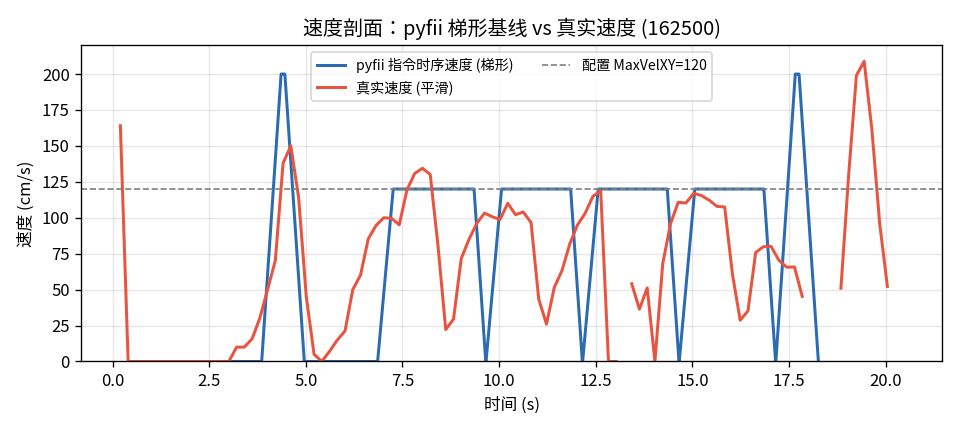
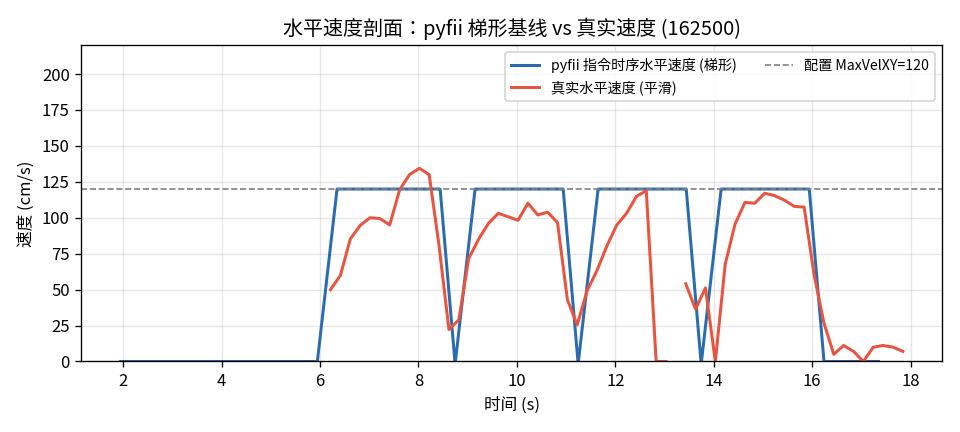
docs: clarify flight log timing alignment

diff --git a/tools/flight_log_analysis.py b/tools/flight_log_analysis.py
@@ -324,6 +324,11 @@ def speed_series(t,x,y,z):
     v=np.sqrt(np.diff(x)**2+np.diff(y)**2+np.diff(z)**2)/np.where(dt==0,1e-9,dt)
     return t[1:], v
 
+def xy_speed_series(t, x, y):
+    dt = np.diff(t)
+    v = np.hypot(np.diff(x), np.diff(y)) / np.where(dt == 0, 1e-9, dt)
+    return t[1:], v
+
 def clean_glitches(x,y,z,thresh=60):
     """flag samples whose jump from previous > thresh cm (localization glitches)"""
     d=np.sqrt(np.diff(x)**2+np.diff(y)**2+np.diff(z)**2)
@@ -383,6 +388,20 @@ def speed_samples(d):
     dt = np.where(dt <= 0, np.nan, dt)
     v = np.sqrt(np.diff(d["x"])**2 + np.diff(d["y"])**2 + np.diff(d["z"])**2) / dt
     return d["t"][1:], v
+
+def first_xy_motion_time(t, x, y, *, z=None, min_t=0.0, min_z=None, threshold=20.0):
+    """First sample time after sustained horizontal motion is visible."""
+    dt = np.diff(t)
+    vxy = np.hypot(np.diff(x), np.diff(y)) / np.where(dt <= 0, np.nan, dt)
+    ok = (t[1:] >= min_t) & (vxy >= threshold)
+    if z is not None and min_z is not None:
+        ok &= z[1:] >= min_z
+    idx = np.where(ok)[0]
+    return float(t[idx[0] + 1]) if len(idx) else None
+
+def first_event_time(d, mask):
+    idx = np.where(mask)[0]
+    return round(float(d["t"][idx[0]]), 3) if len(idx) else None
 
 def yaw_delta_deg(d, t0=32, t1=38):
     m = (d["t"] >= t0) & (d["t"] <= t1)
@@ -551,9 +570,16 @@ plt.tight_layout(); plt.savefig(f"{OUT}/fig1_grid_xy.png"); plt.close()
 # --- Fig 2: Z vs time (align takeoff) ---
 i_to=np.argmax(g['z']>25); t0_real=g['t'][i_to]
 i_to_model=np.argmax(gcz>25); t0_model=gct[i_to_model]
-grid_time_offset=t0_real-t0_model
+grid_z_time_offset=t0_real-t0_model
+grid_xy_time_real = first_xy_motion_time(g["t"], g["x"], g["y"], z=g["z"], min_t=4.5, min_z=80, threshold=20)
+grid_xy_time_model = first_xy_motion_time(gct, gcx, gcy, threshold=20)
+grid_xy_time_offset = (
+    grid_xy_time_real - grid_xy_time_model
+    if grid_xy_time_real is not None and grid_xy_time_model is not None
+    else grid_z_time_offset
+)
 fig,ax=plt.subplots(figsize=(8,3.6))
-ax.plot(gct+grid_time_offset, gcz,color=C_MODEL,lw=2,label="pyfii 指令时序基线 Z")
+ax.plot(gct+grid_z_time_offset, gcz,color=C_MODEL,lw=2,label="pyfii 指令时序基线 Z")
 ax.plot(g['t'], g['z'], color=C_REAL,lw=2,label="真实 Z")
 ax.scatter(g['t'][gl],g['z'][gl],s=25,color='orange',zorder=5,label="定位跳变")
 ax.set_xlabel("时间 (s)"); ax.set_ylabel("Z 高度 (cm)")
@@ -561,23 +587,41 @@ ax.set_title("高度剖面：起飞—巡航—降落 (162500)")
 ax.legend(fontsize=8.5); plt.tight_layout()
 plt.savefig(f"{OUT}/fig2_grid_z.png"); plt.close()
 
-# --- Fig 3: Speed vs time ---
-gcts,gcv = speed_series(gct,gcx,gcy,gcz)
-rts,rv = speed_series(g['t'],g['x'],g['y'],g['z'])
-rv_clean=rv.copy(); rv_clean[gl[1:]]=np.nan
+# --- Fig 3: horizontal speed vs time ---
+gcts,gcv = xy_speed_series(gct,gcx,gcy)
+gd = load_by_uav("flight_20260709_162500")["98101"]
+real_xy_motion_start = grid_xy_time_real if grid_xy_time_real is not None else 3.5
+speed_ok = (
+    ((gd["mode"] == "GUIDED") | (gd["mode"] == "LAND")) &
+    (gd["status"] == "Good") &
+    coord_valid(gd) &
+    (gd["t"] >= real_xy_motion_start) &
+    ~default_pose_mask(gd) &
+    ~clean_glitches(gd["x"], gd["y"], gd["z"], 80)
+)
+sx = np.where(speed_ok, gd["x"], np.nan)
+sy = np.where(speed_ok, gd["y"], np.nan)
+sz = np.where(speed_ok, gd["z"], np.nan)
+rts,rv_clean = xy_speed_series(gd["t"], sx, sy)
+rv_clean[rv_clean > 220] = np.nan
 fig,ax=plt.subplots(figsize=(8,3.6))
-ax.plot(gcts+grid_time_offset,gcv,color=C_MODEL,lw=1.8,label="pyfii 指令时序速度 (梯形)")
-ax.plot(rts,rv_clean,color=C_REAL,lw=1.8,label="真实速度 (平滑)")
+ax.plot(gcts+grid_xy_time_offset,gcv,color=C_MODEL,lw=1.8,label="pyfii 指令时序水平速度 (梯形)")
+ax.plot(rts,rv_clean,color=C_REAL,lw=1.8,label="真实水平速度 (平滑)")
 ax.axhline(120,ls='--',color='gray',lw=1,label="配置 MaxVelXY=120")
 ax.set_ylim(0,220); ax.set_xlabel("时间 (s)"); ax.set_ylabel("速度 (cm/s)")
-ax.set_title("速度剖面：pyfii 梯形基线 vs 真实速度 (162500)")
+ax.set_title("水平速度剖面：pyfii 梯形基线 vs 真实速度 (162500)")
 ax.legend(fontsize=8.5,ncol=2); plt.tight_layout()
 plt.savefig(f"{OUT}/fig3_grid_speed.png"); plt.close()
 
 # grid metrics
 misses=[float(np.min(np.sqrt((g['x']-cx)**2+(g['y']-cy)**2))) for cx,cy in corners]
 metrics['grid']=dict(model_dur=float(mt[-1]),real_dur=float(g['t'][-1]),
-    command_timed_model_dur=float(gct[-1]), command_time_offset=round(float(grid_time_offset),3),
+    command_timed_model_dur=float(gct[-1]),
+    command_time_offset=round(float(grid_z_time_offset),3),
+    command_z_time_offset=round(float(grid_z_time_offset),3),
+    command_xy_time_offset=round(float(grid_xy_time_offset),3),
+    real_first_xy_motion_s=round(float(grid_xy_time_real),3) if grid_xy_time_real is not None else None,
+    model_first_xy_motion_s=round(float(grid_xy_time_model),3) if grid_xy_time_model is not None else None,
     command_timed_warning_count=len(gcmd_warns),
     corner_miss_cm=[round(m,1) for m in misses],mean_miss=round(float(np.mean(misses)),1),
     n_glitch=int(gl.sum()),start_offset_cm=round(float(np.hypot(22,24)),1))
@@ -697,6 +741,27 @@ for flight in all_flights:
         cleaning[flight][uid] = cleaning_counts(d)
 metrics["log_inventory"] = inventory
 metrics["cleaning"] = cleaning
+
+failure_prefix = {}
+for flight in ["flight_20260709_173818", "flight_20260709_173926", "flight_20260709_175805"]:
+    failure_prefix[flight] = {}
+    for uid, d in load_by_uav(flight).items():
+        implausible = ~coord_valid(d)
+        critical = (
+            (d["mode"] == "FLIP") |
+            (d["status"] == "Dead Battery") |
+            (d["status"] == "N/A") |
+            implausible
+        )
+        failure_prefix[flight][uid] = dict(
+            first_critical_s=first_event_time(d, critical),
+            first_flip_s=first_event_time(d, d["mode"] == "FLIP"),
+            first_dead_battery_s=first_event_time(d, d["status"] == "Dead Battery"),
+            first_non_good_s=first_event_time(d, d["status"] != "Good"),
+            first_implausible_s=first_event_time(d, implausible),
+            first_land_s=first_event_time(d, d["mode"] == "LAND"),
+        )
+metrics["failure_prefix"] = failure_prefix
 
 # --- Fig 7: cleaned swarm XY paths (normal duet + later light/flip run) ---
 fig, axes = plt.subplots(1, 2, figsize=(12, 5.5), sharex=True, sharey=True)
